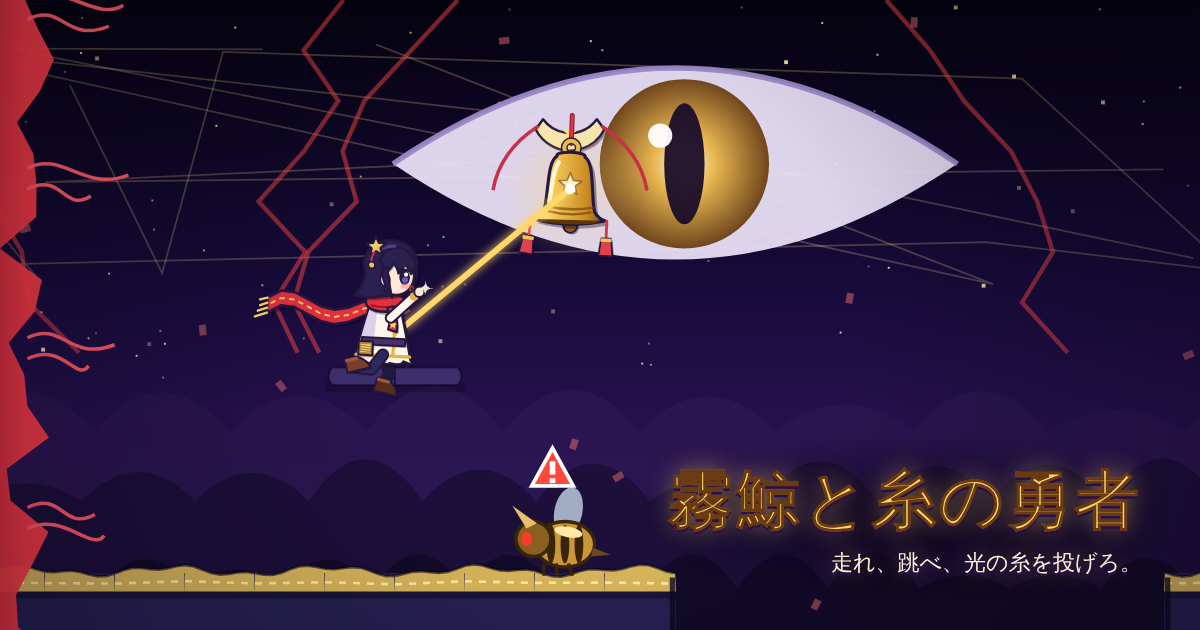
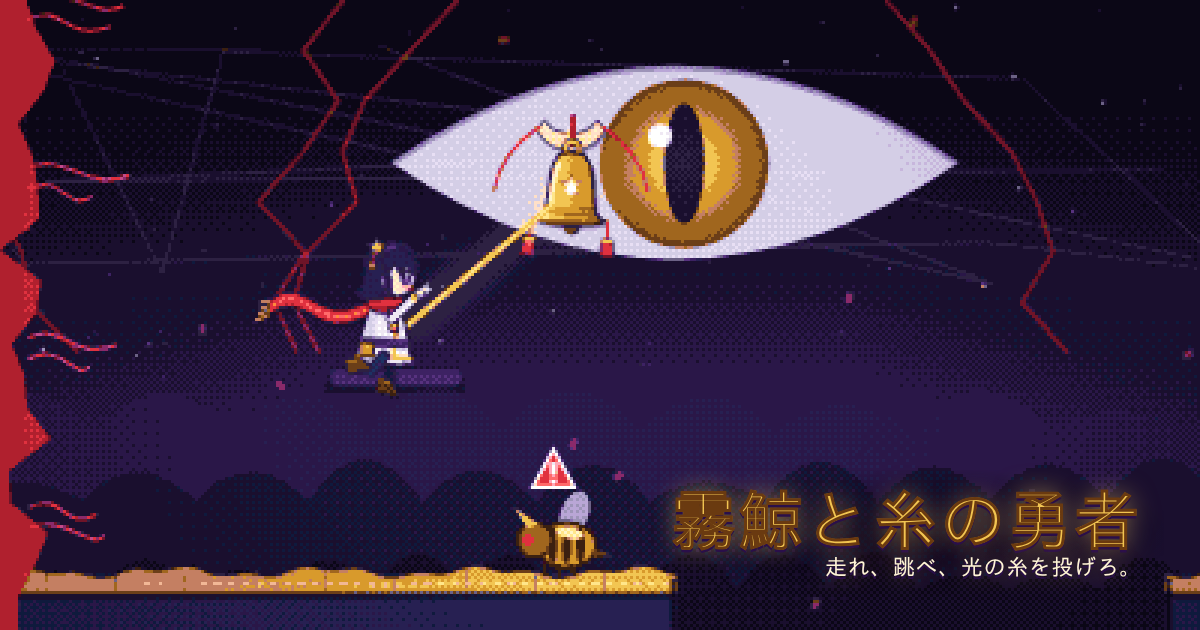
[GAME] 霧鯨と糸の勇者：レトロなドット絵の幻想風に（低解像度描画・限定パレット・ディザ、ドットの枠のUI、ドットのハート）
Claude-Session: https://claude.ai/code/session_01MokQnt7AyWkb7A3uAYuoAR

diff --git a/site/games/mist-whale-thread-hero/game.js b/site/games/mist-whale-thread-hero/game.js
@@ -2,6 +2,7 @@
 import * as L from './logic.js';
 import * as A from './art.js';
 import { createAudio } from './audio.js';
+import { pixelPost, pixelCanvas } from './pixel.js';
 
 const $ = (id) => document.getElementById(id);
 const qs = new URLSearchParams(location.search);
@@ -20,8 +21,10 @@ let reduce = settings.reduce ?? window.matchMedia?.('(prefers-reduced-motion: re
 const persist = () => put(L.SAVE_KEY, L.serialize(save));
 const audio = createAudio(storage, 'mist-whale-thread-hero:audio');
 
-const cv = $('cv'); const ctx = cv.getContext('2d');
-let dpr = 1; let W = 0; let H = 0;
+const cv = $('cv'); const out = cv.getContext('2d');
+// 低い解像度のバッファに描いて、ドットのまま拡大する
+const lo = document.createElement('canvas'); const ctx = lo.getContext('2d', { willReadFrequently: true });
+let dpr = 1; let W = 0; let H = 0; let PIX = 3; let R = 1 / 3;
 let mode = 'title';
 let st = null;
 let cam = { x: 0, y: 0 };
@@ -41,6 +44,8 @@ function resize() {
   dpr = Math.min(2, window.devicePixelRatio || 1);
   W = Math.max(1, r.width); H = Math.max(1, r.height);
   cv.width = Math.round(W * dpr); cv.height = Math.round(H * dpr);
+  PIX = W < 520 ? 2 : Math.max(2, Math.min(4, Math.round(H / (OG ? 210 : 240))));
+  lo.width = Math.ceil(W / PIX); lo.height = Math.ceil(H / PIX); R = lo.width / W;
 }
 window.addEventListener('resize', resize);
 try { new ResizeObserver(() => resize()).observe(document.getElementById('cv')); } catch { /* 古いブラウザは resize だけ */ }
@@ -166,7 +171,7 @@ function handleEvents() {
 const nearX = () => true;
 
 // ───────────────────────── HUD ─────────────────────────
-const HEART_SVG = '<svg class="heart" viewBox="0 0 26 24" aria-hidden="true"><path d="M13 22 C4 15 1 11 1 7 C1 3.5 4 1 7.2 1 C9.8 1 11.8 2.6 13 4.6 C14.2 2.6 16.2 1 18.8 1 C22 1 25 3.5 25 7 C25 11 22 15 13 22Z" fill="#e8343a" stroke="#fff4d6" stroke-width="1.6"/><path d="M6 6 C7 4.5 8.5 4 9.5 4.4" stroke="#fff" stroke-width="1.6" fill="none" stroke-linecap="round"/></svg>';
+const HEART_SVG = '<svg class="heart" viewBox="-1 -1 11 10" shape-rendering="crispEdges" aria-hidden="true"><g fill="#0b0716" transform="translate(0.6 0.6)"><rect x="1" y="0" width="1" height="1"/><rect x="2" y="0" width="1" height="1"/><rect x="6" y="0" width="1" height="1"/><rect x="7" y="0" width="1" height="1"/><rect x="0" y="1" width="1" height="1"/><rect x="1" y="1" width="1" height="1"/><rect x="2" y="1" width="1" height="1"/><rect x="3" y="1" width="1" height="1"/><rect x="5" y="1" width="1" height="1"/><rect x="6" y="1" width="1" height="1"/><rect x="7" y="1" width="1" height="1"/><rect x="8" y="1" width="1" height="1"/><rect x="0" y="2" width="1" height="1"/><rect x="1" y="2" width="1" height="1"/><rect x="2" y="2" width="1" height="1"/><rect x="3" y="2" width="1" height="1"/><rect x="4" y="2" width="1" height="1"/><rect x="5" y="2" width="1" height="1"/><rect x="6" y="2" width="1" height="1"/><rect x="7" y="2" width="1" height="1"/><rect x="8" y="2" width="1" height="1"/><rect x="0" y="3" width="1" height="1"/><rect x="1" y="3" width="1" height="1"/><rect x="2" y="3" width="1" height="1"/><rect x="3" y="3" width="1" height="1"/><rect x="4" y="3" width="1" height="1"/><rect x="5" y="3" width="1" height="1"/><rect x="6" y="3" width="1" height="1"/><rect x="7" y="3" width="1" height="1"/><rect x="8" y="3" width="1" height="1"/><rect x="1" y="4" width="1" height="1"/><rect x="2" y="4" width="1" height="1"/><rect x="3" y="4" width="1" height="1"/><rect x="4" y="4" width="1" height="1"/><rect x="5" y="4" width="1" height="1"/><rect x="6" y="4" width="1" height="1"/><rect x="7" y="4" width="1" height="1"/><rect x="2" y="5" width="1" height="1"/><rect x="3" y="5" width="1" height="1"/><rect x="4" y="5" width="1" height="1"/><rect x="5" y="5" width="1" height="1"/><rect x="6" y="5" width="1" height="1"/><rect x="3" y="6" width="1" height="1"/><rect x="4" y="6" width="1" height="1"/><rect x="5" y="6" width="1" height="1"/><rect x="4" y="7" width="1" height="1"/></g><g fill="#e0313f"><rect x="1" y="0" width="1" height="1"/><rect x="2" y="0" width="1" height="1"/><rect x="6" y="0" width="1" height="1"/><rect x="7" y="0" width="1" height="1"/><rect x="0" y="1" width="1" height="1"/><rect x="1" y="1" width="1" height="1"/><rect x="2" y="1" width="1" height="1"/><rect x="3" y="1" width="1" height="1"/><rect x="5" y="1" width="1" height="1"/><rect x="6" y="1" width="1" height="1"/><rect x="7" y="1" width="1" height="1"/><rect x="8" y="1" width="1" height="1"/><rect x="0" y="2" width="1" height="1"/><rect x="1" y="2" width="1" height="1"/><rect x="2" y="2" width="1" height="1"/><rect x="3" y="2" width="1" height="1"/><rect x="4" y="2" width="1" height="1"/><rect x="5" y="2" width="1" height="1"/><rect x="6" y="2" width="1" height="1"/><rect x="7" y="2" width="1" height="1"/><rect x="8" y="2" width="1" height="1"/><rect x="0" y="3" width="1" height="1"/><rect x="1" y="3" width="1" height="1"/><rect x="2" y="3" width="1" height="1"/><rect x="3" y="3" width="1" height="1"/><rect x="4" y="3" width="1" height="1"/><rect x="5" y="3" width="1" height="1"/><rect x="6" y="3" width="1" height="1"/><rect x="7" y="3" width="1" height="1"/><rect x="8" y="3" width="1" height="1"/><rect x="1" y="4" width="1" height="1"/><rect x="2" y="4" width="1" height="1"/><rect x="3" y="4" width="1" height="1"/><rect x="4" y="4" width="1" height="1"/><rect x="5" y="4" width="1" height="1"/><rect x="6" y="4" width="1" height="1"/><rect x="7" y="4" width="1" height="1"/><rect x="2" y="5" width="1" height="1"/><rect x="3" y="5" width="1" height="1"/><rect x="4" y="5" width="1" height="1"/><rect x="5" y="5" width="1" height="1"/><rect x="6" y="5" width="1" height="1"/><rect x="3" y="6" width="1" height="1"/><rect x="4" y="6" width="1" height="1"/><rect x="5" y="6" width="1" height="1"/><rect x="4" y="7" width="1" height="1"/></g><rect x="1" y="1" width="1" height="1" fill="#ffd8e0"/><rect x="2" y="1" width="1" height="1" fill="#ffa8b8"/><rect x="1" y="2" width="1" height="1" fill="#ffa8b8"/></svg>';
 let lastHearts = 3;
 function updateHud(pop = false) {
   if (!st) return;
@@ -226,8 +231,15 @@ function showOnly(which) {
 
 // ───────────────────────── 描画 ─────────────────────────
 function render(dt) {
+  renderScene(dt);
+  pixelPost(ctx, lo.width, lo.height);
+  out.setTransform(1, 0, 0, 1, 0, 0);
+  out.imageSmoothingEnabled = false;
+  out.drawImage(lo, 0, 0, lo.width * PIX * dpr, lo.height * PIX * dpr);
+}
+function renderScene(dt) {
   ctx.setTransform(1, 0, 0, 1, 0, 0);
-  ctx.clearRect(0, 0, cv.width, cv.height);
+  ctx.clearRect(0, 0, lo.width, lo.height);
   if (mode === 'title' || (!st && mode !== 'map')) { renderTitle(); return; }
   if (mode === 'map') { renderMapBg(); return; }
   const s = viewScale(); const vw = W / s; const vh = H / s;
@@ -245,7 +257,7 @@ function render(dt) {
   if (OG) { cam.x = p.x - vw * 0.3; cam.y = Math.min(mapH - vh, st.ogBell.y - vh * 0.3); }
   let sx = 0; let sy = 0;
   if (shake > 0) { sx = (Math.random() - 0.5) * 10 * shake; sy = (Math.random() - 0.5) * 10 * shake; }
-  ctx.setTransform(dpr * s, 0, 0, dpr * s, 0, 0);
+  ctx.setTransform(R * s, 0, 0, R * s, 0, 0);
   const ch = st.def.chapter;
   const bells = st.bells.filter((b) => !b.clock);
   const rung = bells.filter((b) => b.rung).length;
@@ -255,7 +267,7 @@ function render(dt) {
     cracks: st.index === 14 ? 1 - rung / 3 : ch === 2 ? 0.4 : 0,
     gold: st.index === 14 ? rung / 3 : 0,
   });
-  ctx.setTransform(dpr * s, 0, 0, dpr * s, (-cam.x + sx) * dpr * s, (-cam.y + sy) * dpr * s);
+  ctx.setTransform(R * s, 0, 0, R * s, Math.round((-cam.x + sx) * R * s), Math.round((-cam.y + sy) * R * s));
   const c0 = Math.floor(cam.x / L.TS) - 1; const c1 = Math.ceil((cam.x + vw) / L.TS) + 1;
   const r0 = Math.floor(cam.y / L.TS) - 1; const r1 = Math.ceil((cam.y + vh) / L.TS) + 1;
   A.drawTiles(ctx, st, ch, c0, c1, r0, r1, t);
@@ -290,7 +302,7 @@ function render(dt) {
   for (const r of rings) { const u = 1 - r.life / r.max; ctx.strokeStyle = r.color; ctx.globalAlpha = 1 - u; ctx.lineWidth = 3; ctx.beginPath(); ctx.arc(r.x, r.y, r.r * (0.2 + u), 0, Math.PI * 2); ctx.stroke(); }
   ctx.globalAlpha = 1;
   // 画面効果
-  ctx.setTransform(dpr, 0, 0, dpr, 0, 0);
+  ctx.setTransform(R, 0, 0, R, 0, 0);
   if (flash > 0) { ctx.fillStyle = `rgba(255,236,170,${flash * 0.5})`; ctx.fillRect(0, 0, W, H); }
   if (p.invuln > 0.7 && p.dying <= 0) { ctx.fillStyle = `rgba(255,40,60,${(p.invuln - 0.7) * 0.5})`; ctx.fillRect(0, 0, W, H); }
   if (p.dying > 0) { ctx.fillStyle = `rgba(236,226,255,${Math.min(0.5, (1 - p.dying) * 0.6)})`; ctx.fillRect(0, 0, W, H); }
@@ -303,7 +315,7 @@ function render(dt) {
 function renderTitle() {
   const s = Math.min(H / 360, W / 300);
   const vw = W / s; const vh = H / s;
-  ctx.setTransform(dpr * s, 0, 0, dpr * s, 0, 0);
+  ctx.setTransform(R * s, 0, 0, R * s, 0, 0);
   A.drawBackground(ctx, 0, t * 20, 0, vw, vh, t, { noWhale: true });
   // 右上から斜めに流れる巨大な霧鯨
   const ws = Math.max(0.36, Math.min(vw / 1250, vh / 640));
@@ -323,7 +335,7 @@ function renderTitle() {
   A.drawThread(ctx, { x: mx + 16, y: mio.y + 2 }, { x: bx, y: by }, A.threadColor(save.color, t), 'hold', 1, t);
   A.drawStarBell(ctx, bx, by, 1.6, t);
   A.drawMio(ctx, mio, t, { scale: 1.5, throwing: true, color: A.threadColor(save.color, t) });
-  ctx.setTransform(dpr, 0, 0, dpr, 0, 0);
+  ctx.setTransform(R, 0, 0, R, 0, 0);
   const vg = ctx.createRadialGradient(W / 2, H / 2, Math.min(W, H) * 0.35, W / 2, H / 2, Math.max(W, H) * 0.75);
   vg.addColorStop(0, 'rgba(0,0,0,0)'); vg.addColorStop(1, 'rgba(10,4,26,.5)');
   ctx.fillStyle = vg; ctx.fillRect(0, 0, W, H);
@@ -331,9 +343,9 @@ function renderTitle() {
 
 function renderMapBg() {
   const s = Math.min(H / 360, W / 300); const vw = W / s; const vh = H / s;
-  ctx.setTransform(dpr * s, 0, 0, dpr * s, 0, 0);
+  ctx.setTransform(R * s, 0, 0, R * s, 0, 0);
   const ch = Math.min(2, Math.floor(nextStage() / 5));
-  A.drawBackground(ctx, ch, t * 15, 0, vw, vh, t, { eye: ch === 2 ? 0.5 : 0, cracks: ch === 2 ? 0.4 : 0 });
+  A.drawBackground(ctx, ch, t * 15, 0, vw, vh, t, { whaleDim: true, eye: ch === 2 ? 0.5 : 0, cracks: ch === 2 ? 0.4 : 0 });
 }
 
 // ───────────────────────── ループ ─────────────────────────
@@ -375,9 +387,8 @@ function finishStage() {
   $('resStage').textContent = `${L.CHAPTERS[st.def.chapter].sub} ${res.index + 1}『${st.def.name}』`;
   const bells = $('resBells'); bells.innerHTML = '';
   res.stars.forEach((got, i) => {
-    const c = document.createElement('canvas'); c.width = 108; c.height = 108;
-    const g = c.getContext('2d'); g.scale(2, 2);
-    if (got) A.drawStarBell(g, 27, 30, 1.7, i); else { g.globalAlpha = 0.25; A.drawStarBell(g, 27, 30, 1.7, 0); }
+    const c = document.createElement('canvas'); c.width = 27; c.height = 27; c.className = 'px';
+    pixelCanvas(c, (g) => { g.scale(0.5, 0.5); if (got) A.drawStarBell(g, 27, 30, 1.7, i); else { g.globalAlpha = 0.35; A.drawStarBell(g, 27, 30, 1.7, 0); } });
     c.setAttribute('aria-label', got ? '星鈴 取った' : '星鈴 まだ');
     bells.appendChild(c);
   });
@@ -534,7 +545,7 @@ function renderNote() {
       <ul><li><b>金のフック</b>：その場所まで一気に飛ぶ。空中でも投げられる。</li><li><b>レバー・鐘</b>：引くと橋が出る・扉が開く・灯台が開く。</li><li><b>敵</b>：1秒縛る。縛っている間にもう一度 J で手元へ引き寄せる。鈴スイッチに通す・いばらに落とす・別の敵にぶつけると倒せる。</li><li><b>種・雲の舟</b>：手元へ引き寄せる。舟に乗ってフックへ投げると舟ごと進む。</li></ul>
       <p>投げたあと0.6秒は次が投げられない（左上の糸巻きが満ちたらOK）。</p>
       <h3>ハートと灯</h3><p>ハートは3つ。なくなると最後にともした灯から、ハート3つで再開。星鈴はその面をクリアしたときに記録される。</p>
-      <h3>敵</h3><div class="foes">${FOES.map((f) => `<div class="foe"><canvas width="180" height="140" data-k="${f.kind}"></canvas><b>${f.name}</b>${f.text}</div>`).join('')}</div>`;
+      <h3>敵</h3><div class="foes">${FOES.map((f) => `<div class="foe"><canvas width="45" height="35" class="px" data-k="${f.kind}"></canvas><b>${f.name}</b>${f.text}</div>`).join('')}</div>`;
     for (const c of body.querySelectorAll('.foe canvas')) drawFoe(c, c.dataset.k);
   } else {
     body.innerHTML = `<div class="setting"><span>音</span><button type="button" class="toggle" id="setMute" aria-pressed="${!audio.state.muted}">${audio.state.muted ? 'オフ' : 'オン'}</button></div>
@@ -546,8 +557,9 @@ function renderNote() {
   }
 }
 
-function drawFoe(c, kind) {
-  const g = c.getContext('2d'); g.scale(2, 2);
+function drawFoe(c, kind) { pixelCanvas(c, (g) => drawFoeInner(g, kind)); }
+function drawFoeInner(g, kind) {
+  g.scale(0.5, 0.5);
   g.fillStyle = '#241444'; g.fillRect(0, 0, 90, 70);
   if (kind === 'fray') { A.drawFray(g, { x: 62, dying: 0 }, 0, 70, 1); return; }
   const e = { kind, x: 0, y: 0, r: 16, face: 1, state: 'hover', bound: 0, stun: 0, id: 1, s: 0.6, x0: -70, x1: 70, surf: 40, alert: true, beam: null, vx: 1, vy: 0, anim: 0 };

diff --git a/site/games/mist-whale-thread-hero/style.css b/site/games/mist-whale-thread-hero/style.css
@@ -182,3 +182,56 @@ body.og .og-card { display: block; padding: 18px 22px; border-radius: 24px; back
 @media (prefers-reduced-motion: reduce) {
   .story-lines p { animation-duration: .01s; }
 }
+
+/* ───── レトロなドットの見た目（上書き） ───── */
+:root { --px: 3px; --navy: #0b0716; --panel: #1a0f2e; --gold: #f2c552; --gold2: #d89a2c; --paper: #fff6c8; }
+body, button, .chip, .ghost-btn, .big-btn, .note-body, .hint, .muted, .how-icons, .arcade-link, .node .nm small {
+  font-family: "Osaka-Mono", "MS Gothic", "Noto Sans Mono CJK JP", "Hiragino Kaku Gothic ProN", monospace;
+  letter-spacing: .04em;
+}
+.px, .res-bells canvas, .foe canvas { image-rendering: pixelated; image-rendering: crisp-edges; }
+/* ドットの枠：外側に黒、内側に金 */
+.chip, .ghost-btn, .big-btn, .sheet, .chap, .node, .pk, .hint, .toast, .spool, .note-tabs button, .cswatch, .setting, .toggle, .nrow, .mem, .foe, .res-grid > div, .badge, .how-icons kbd {
+  border-radius: 0 !important;
+}
+.chip { background: var(--panel); color: var(--paper); border: 0; box-shadow: 0 0 0 2px var(--gold), 0 0 0 4px var(--navy), 4px 4px 0 4px rgba(0,0,0,.35); padding: 5px 10px; }
+.chip.btn:active { transform: translate(2px, 2px); }
+.bell-ico { image-rendering: pixelated; background: none; position: relative; width: 14px; height: 14px; }
+.bell-ico::before { content: ""; position: absolute; left: 3px; top: 1px; width: 8px; height: 9px; background: var(--gold); box-shadow: -2px 6px 0 0 var(--gold), 2px 6px 0 0 var(--gold), 0 12px 0 -3px #6b3e18; }
+.hearts { filter: none; }
+.heart { image-rendering: pixelated; }
+.spool { background: var(--panel); border: 0; box-shadow: 0 0 0 2px var(--gold), 0 0 0 4px var(--navy); }
+.spool-ring { inset: 4px; border-radius: 0; -webkit-mask: none; mask: none; clip-path: polygon(0 0, 100% 0, 100% 100%, 0 100%, 0 0, 22% 22%, 22% 78%, 78% 78%, 78% 22%, 22% 22%); }
+.hint { background: var(--panel); border: 0; box-shadow: 0 0 0 2px #7a4a9e, 0 0 0 4px var(--navy); color: var(--paper); }
+.toast { background: var(--paper); color: #2a1748; box-shadow: 0 0 0 3px var(--gold2), 0 0 0 6px var(--navy), 6px 6px 0 6px rgba(0,0,0,.35); }
+.logo { text-shadow: 3px 3px 0 #3d2263, 6px 6px 0 var(--navy); }
+.logo-a { font-family: "Osaka-Mono", "MS Gothic", monospace; }
+.logo-b { -webkit-text-stroke: 0; font-family: "Osaka-Mono", "MS Gothic", "Hiragino Kaku Gothic ProN", monospace; font-weight: 900; color: var(--gold); text-shadow: 0 4px 0 #a0661e, 4px 8px 0 #3d2263, 8px 12px 0 var(--navy); letter-spacing: .02em; }
+.tagline { text-shadow: 2px 2px 0 var(--navy); }
+.big-btn { background: var(--gold); color: #3b2010; box-shadow: inset -4px -4px 0 #a0661e, inset 4px 4px 0 #ffe68a, 0 0 0 3px var(--navy), 6px 6px 0 3px rgba(0,0,0,.4); text-shadow: none; }
+.big-btn:active { transform: translate(3px, 3px); box-shadow: inset -4px -4px 0 #a0661e, inset 4px 4px 0 #ffe68a, 0 0 0 3px var(--navy); }
+.ghost-btn { background: var(--panel); border: 0; box-shadow: 0 0 0 2px #c9a4e0, 0 0 0 4px var(--navy); color: var(--paper); }
+.col-btns .ghost-btn { background: #ecdcf7; color: #2a1748; box-shadow: 0 0 0 2px #7a4a9e, 0 0 0 4px var(--navy); border: 0; }
+.how-icons kbd { background: var(--paper); box-shadow: 0 2px 0 #9d94b8; }
+.sheet { background: #fff6c8; color: #2a1748; border: 0; box-shadow: 0 0 0 4px var(--gold2), 0 0 0 8px var(--navy), 10px 10px 0 8px rgba(0,0,0,.4); background-image: linear-gradient(rgba(42,23,72,.05) 1px, transparent 1px); background-size: 100% 4px; }
+.story .sheet { background: #1a0f2e; background-image: linear-gradient(rgba(255,255,255,.04) 1px, transparent 1px); background-size: 100% 4px; box-shadow: 0 0 0 4px #7a4a9e, 0 0 0 8px var(--navy), 10px 10px 0 8px rgba(0,0,0,.4); }
+.chap { background: #fff6c8; box-shadow: 0 0 0 3px var(--gold2), 0 0 0 6px var(--navy), 8px 8px 0 6px rgba(0,0,0,.35); }
+.chap::before { height: 8px; }
+.node { border: 0; box-shadow: 0 0 0 2px #c9a4e0; background: #fffdf0; }
+.node .no { border-radius: 0; box-shadow: inset -2px -2px 0 rgba(0,0,0,.3); }
+.node.next { box-shadow: 0 0 0 3px var(--gold2), 0 0 0 5px var(--navy); }
+.node .st { font-family: monospace; }
+.pk { border: 0; background: #2a1748; color: var(--paper); box-shadow: inset -4px -4px 0 #1a0f2e, inset 4px 4px 0 #57327f, 0 0 0 2px var(--navy); }
+.pk-j { background: #1d3263; box-shadow: inset -4px -4px 0 #0f1a3d, inset 4px 4px 0 #2f5a96, 0 0 0 2px var(--navy); }
+.pk-t { background: #6b3e18; color: var(--gold); box-shadow: inset -4px -4px 0 #3b2010, inset 4px 4px 0 #a0661e, 0 0 0 2px var(--navy); }
+.pk.on { transform: translate(2px, 2px); filter: brightness(1.3); }
+.pad { background: var(--navy); border-top: 4px solid #3d2263; }
+.note-tabs button { background: #ecdcf7; box-shadow: 0 0 0 2px #c9a4e0; }
+.note-tabs button[aria-current="true"] { background: #3d2263; color: var(--paper); box-shadow: 0 0 0 2px var(--navy); }
+.nrow, .mem, .setting, .cswatch, .res-grid > div { border: 0; box-shadow: 0 0 0 2px #e6d6b0; }
+.foe { background: #1a0f2e; box-shadow: 0 0 0 2px #57327f; }
+.badge.on { background: var(--gold); box-shadow: inset -2px -2px 0 #a0661e; }
+.toggle { border: 0; box-shadow: 0 0 0 2px #7a4a9e; }
+.toggle[aria-pressed="true"] { background: #3d2263; }
+.map-screen { background: linear-gradient(rgba(11,7,22,.2), rgba(11,7,22,.5)); }
+body { background: var(--navy); }

diff --git a/site/games/mist-whale-thread-hero/pixel.js b/site/games/mist-whale-thread-hero/pixel.js
@@ -1,0 +1,54 @@
+// レトロなドット絵の仕上げ：限られた色数のパレットへ寄せ、4×4のディザをかける。
+export const PALETTE = [
+  '#0b0716', '#1a0f2e', '#2a1748', '#3d2263', '#57327f', '#7a4a9e', '#a070c0', '#c9a4e0', '#ecdcf7', '#ffffff',
+  '#0f1a3d', '#1d3263', '#2f5a96', '#4f8ac4', '#8cc4ea', '#d0eefa',
+  '#123d3a', '#1e6b5e', '#3fa07c', '#7fd07a', '#c4ec8e',
+  '#3b2010', '#6b3e18', '#a0661e', '#d89a2c', '#f2c552', '#ffe68a', '#fff6c8',
+  '#3a0a1e', '#6e1428', '#b0202e', '#e0313f', '#ff6a6a', '#ffa8b8',
+  '#ffe0c8', '#f2b896', '#c47f62',
+  '#8a2a6a', '#c24a8a', '#6c6286', '#9d94b8', '#d4cee6', '#ff8a3a',
+  '#efe8f3', '#c7b6dc', '#8d73b4', '#2d2142', '#272052', '#4f9a69', '#8fd17e', '#e8dff4', '#b9a6d6',
+];
+const RGB = PALETTE.map((h) => [parseInt(h.slice(1, 3), 16), parseInt(h.slice(3, 5), 16), parseInt(h.slice(5, 7), 16)]);
+let LUT = null; // 15bit の色 → パレットの RGB を詰めた 32bit
+function buildLut() {
+  LUT = new Uint32Array(32768);
+  for (let i = 0; i < 32768; i++) {
+    const r = ((i >> 10) & 31) * 8 + 4; const g = ((i >> 5) & 31) * 8 + 4; const b = (i & 31) * 8 + 4;
+    let best = 0; let bd = Infinity;
+    for (let k = 0; k < RGB.length; k++) {
+      const [pr, pg, pb] = RGB[k]; const rm = (r + pr) / 2;
+      const d = (2 + rm / 256) * (r - pr) ** 2 + 4 * (g - pg) ** 2 + (2 + (255 - rm) / 256) * (b - pb) ** 2;
+      if (d < bd) { bd = d; best = k; }
+    }
+    const [pr, pg, pb] = RGB[best];
+    LUT[i] = (255 << 24) | (pb << 16) | (pg << 8) | pr;
+  }
+}
+const BAYER = [0, 8, 2, 10, 12, 4, 14, 6, 3, 11, 1, 9, 15, 7, 13, 5].map((v) => (v / 16 - 0.47) * 11);
+
+export function pixelPost(ctx, w, h) {
+  if (!LUT) buildLut();
+  if (w < 1 || h < 1) return;
+  const img = ctx.getImageData(0, 0, w, h);
+  const d = img.data; const out = new Uint32Array(d.buffer);
+  for (let y = 0; y < h; y++) {
+    const row = (y & 3) * 4;
+    for (let x = 0; x < w; x++) {
+      const i = y * w + x; const o = i * 4;
+      if (d[o + 3] < 100) { out[i] = 0; continue; }
+      const dz = BAYER[row + (x & 3)];
+      const r = Math.max(0, Math.min(255, d[o] + dz)); const g = Math.max(0, Math.min(255, d[o + 1] + dz)); const b = Math.max(0, Math.min(255, d[o + 2] + dz));
+      out[i] = LUT[((r >> 3) << 10) | ((g >> 3) << 5) | (b >> 3)];
+    }
+  }
+  ctx.putImageData(img, 0, 0);
+}
+
+// 小さなキャンバスに低い解像度で描いてドットにする
+export function pixelCanvas(canvas, draw) {
+  const g = canvas.getContext('2d', { willReadFrequently: true });
+  g.clearRect(0, 0, canvas.width, canvas.height);
+  draw(g);
+  pixelPost(g, canvas.width, canvas.height);
+}
